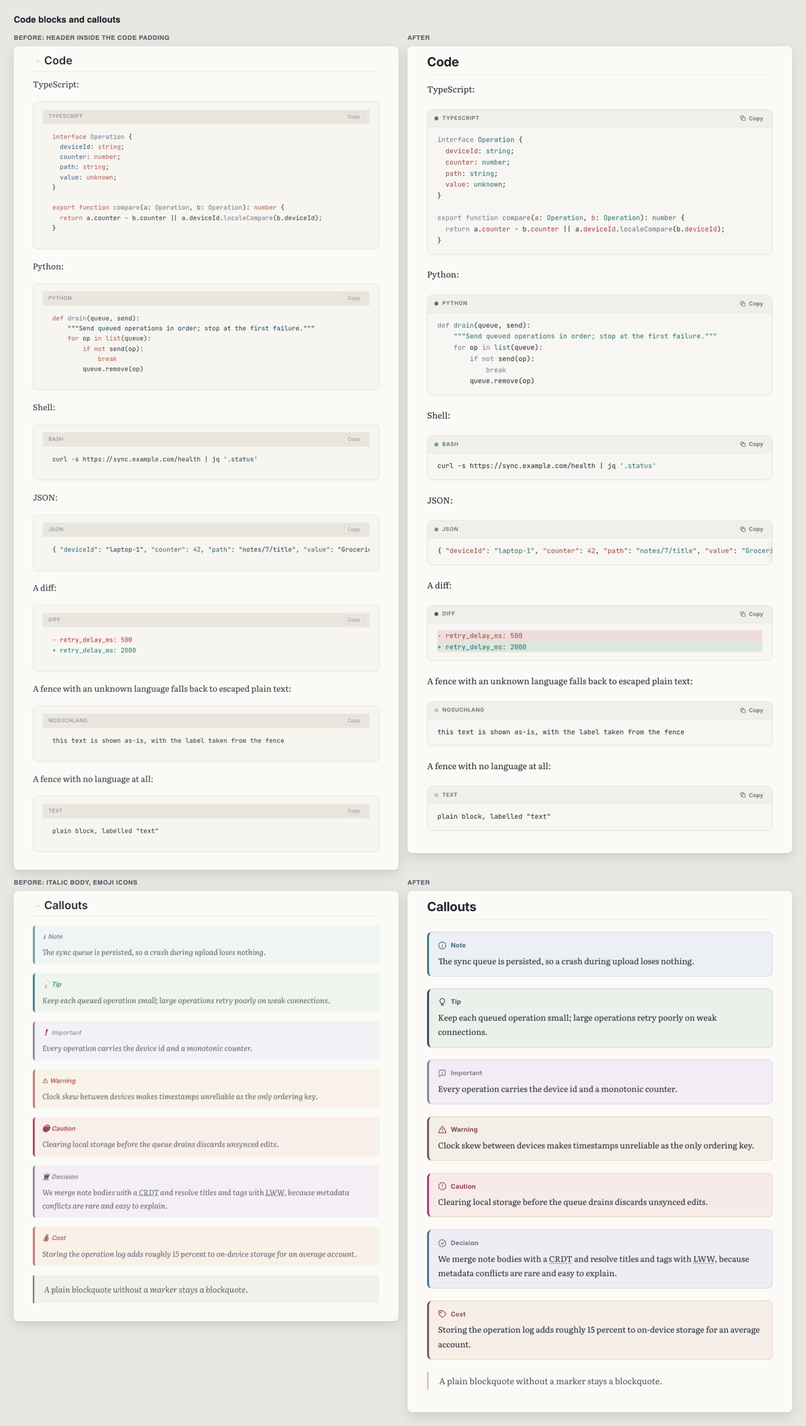
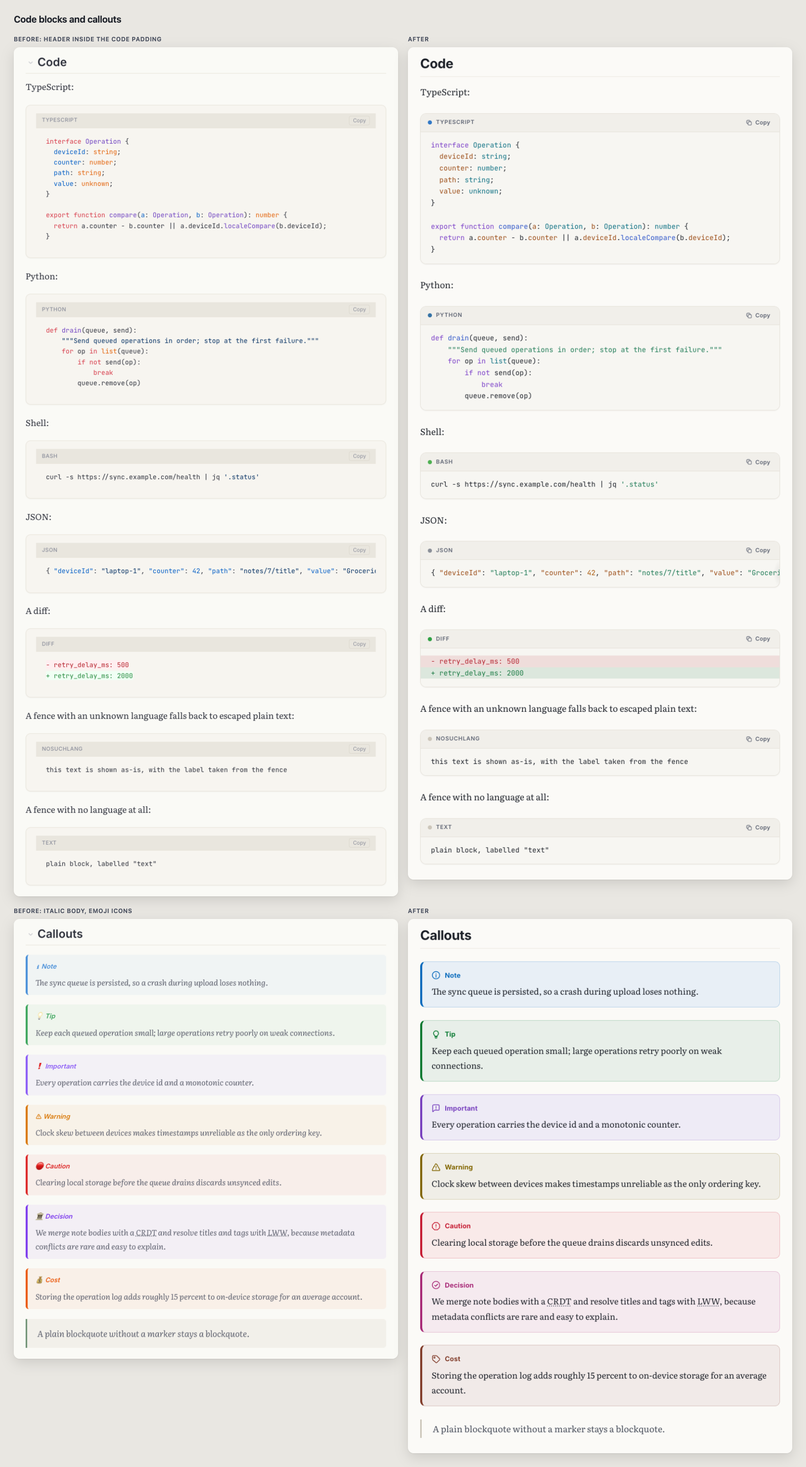
docs(visuals): describe the review fixes, and retake the screenshots
- features.md: the section rail, callout colours and tints, the dashboard, CSS-drawn figure captions (and why),
  tabular figures only in number columns, table scroll cues, printing (what prints, and how a dark diagram
  prints), phone width.
- rendering.md: the Mermaid lifecycle now namespaces ids and finishes each diagram; the font wait happens once;
  the callout table matches the drawn icons and colours.
- read-aloud.md: a figure's caption is not read (it is drawn by CSS); architecture.md: the function index and
  state for the new and renamed functions; dependencies.md: what a Mermaid upgrade must re-check;
  visualization-catalog.md: print gaps as they are now; roadmap.md: issue 11's fix.
- docs/images: every screenshot retaken from this branch (before halves from main 568069f), the journey is now in
  the gallery image, and visuals-phone.png is new. Saved as lossless PNG: a 256-colour palette visibly changed the
  callout tints these images document.

The rail now has an opaque background with a band of page colour above it, so text scrolling under the
translucent toolbar does not show between the two.

diff --git a/css/viewer.css b/css/viewer.css
@@ -1321,11 +1321,12 @@ input:focus-visible, textarea:focus-visible { outline-offset: 0; }
   position: sticky; top: calc(var(--toolbar-height) + 6px); z-index: 40;
   display: flex; align-items: center; gap: 3px;
   height: 34px; margin: -52px 0 18px; padding: 0 3px;
-  background: color-mix(in srgb, var(--bg-primary) 94%, transparent);
-  -webkit-backdrop-filter: saturate(1.4) blur(12px); backdrop-filter: saturate(1.4) blur(12px);
+  background: var(--bg-primary);
   border: 1px solid var(--border-secondary);
   border-radius: 12px;
-  box-shadow: var(--shadow-xs);
+  /* The first shadow is a band of page colour that fills the gap above the rail, so text scrolling under the
+     translucent toolbar does not show between the two. */
+  box-shadow: 0 -7px 0 0 var(--bg-primary), var(--shadow-xs);
   font-family: var(--font-ui);
 }
 .md-body > .section-minimap + * { margin-top: 0; }

diff --git a/docs/features.md b/docs/features.md
@@ -143,13 +143,13 @@ The commenting layer wraps `renderMarkdown`. It reads the `MDV-COMMENTS` block f
 
 ### Section minimap
 
-`buildSectionMinimap` adds a row of buttons, one per H2, but **only when the document has three or more H2 headings**.
+`buildSectionMinimap` adds a rail of buttons, one per H2, but **only when the document has three or more H2 headings**.
 
-- It sits directly after the frontmatter dashboard if there is one. Otherwise it sits under the first H1, at the top of that heading's section (so the H1's fold toggle still works), or at the top of the document.
-- Each segment shows its section's title, cut with an ellipsis when it does not fit. Hovering a segment, or reaching it with Tab, shows the full title in a tooltip. The labels are drawn by CSS from `data-label` and named for screen readers with `aria-label`, so they are not document text: search, read-aloud and copy never pick them up.
-- When a segment is too narrow for a readable label (about 60 px, for example 17 sections in the reading column), the row becomes a section track: sections already read, the current one (larger, in the accent colour) and the ones ahead. The tooltip still names each segment.
+- The rail is the first element of the document, outside every section, so the blocks inside sections keep their positions among their siblings (comment anchors record them). It is drawn in the space above the document, so it takes no room from it, and it stays under the toolbar while you read (`position: sticky`), so it always shows where you are. Jumps (outline, search, links, diagram nodes) land below it.
+- With room, each segment shows its section's title, cut with an ellipsis when it does not fit. Hovering a segment, or reaching it with Tab, shows the full title in a tooltip. The labels are drawn by CSS from `data-label` and named for screen readers with `aria-label`, so they are not document text: search, read-aloud and copy never pick them up.
+- When segments are narrower than 72 px (for example 17 sections in the reading column), they become a track: sections already read, the current one (larger, in the accent colour) and the ones ahead. The rail then names the current section and its position, "Architecture 3 / 17" (from `data-current` and `data-position`), and the title of the document above the first H2. The tooltip still names each segment. A `ResizeObserver` switches between the two modes when the column changes width.
 - Clicking a segment scrolls to that H2.
-- The segment for the H2 currently in view is highlighted, using the same observer band as the scroll spy, and the observer of the previous render is disconnected first.
+- The current section is the last H2 above the reading line (the line the outline uses), recomputed on scroll at most once per frame, so it is right when scrolling up as well as down. Folded H2s are skipped. One scroll listener serves the page's lifetime.
 
 ### Collapsing and expanding sections
 
@@ -198,7 +198,7 @@ The choice is stored in `localStorage` under `mdv-fontsize`.
 ### Reading progress and scroll buttons
 
 - A thin bar under the toolbar fills as you scroll (`scroll` listener).
-- Two floating buttons scroll to the top and the bottom. The up button is hidden in the first 200 px of the page. The down button is hidden within 200 px of the bottom.
+- Two floating buttons scroll to the top and the bottom. The up button is hidden in the first 200 px of the page. The down button is hidden within 200 px of the bottom. At 600 px or less they are not shown: on a phone they covered the ends of the last lines of text.
 
 ### Search
 
@@ -298,13 +298,13 @@ Each code block has a header with a coloured dot for common languages, the langu
 | `[!NOTE]` | Note | blue | circled "i" |
 | `[!TIP]` | Tip | green | light bulb |
 | `[!IMPORTANT]` | Important | violet | speech bubble with "!" |
-| `[!WARNING]` | Warning | amber | triangle with "!" |
+| `[!WARNING]` | Warning | ochre (amber in dark) | triangle with "!" |
 | `[!CAUTION]` | Caution | red | octagon with "!" |
 | `[!TLDR]` | TL;DR | teal | lightning bolt |
-| `[!DECISION]` | Decision | deep violet | circled check mark |
-| `[!COST]` | Cost | orange | price tag |
+| `[!DECISION]` | Decision | magenta | circled check mark |
+| `[!COST]` | Cost | rust (coral in dark) | price tag |
 
-A callout has a tinted background, a strong left bar in its accent colour, and a title in that colour with its icon. Each theme sets the eight accent colours (`--callout-*` in `css/viewer.css`), and each title meets 4.5:1 on its own tint. The icons are drawn as inline SVG in the accent colour, so they look the same on every operating system. An unknown type leaves the blockquote unchanged. Text after the marker on the same line stays in the body; there is no custom-title syntax.
+A callout has a tinted background, a strong left bar in its accent colour, and a title in that colour with its icon. Each theme sets the eight accent colours (`--callout-*` in `css/viewer.css`): the closest two are at least CIELAB dE76 20 apart in every theme, and each title meets 4.5:1 on its own tint. The tint is the accent mixed in oklab into a grey at the page's lightness (`--callout-base`), not into the page itself, so a cool callout on the warm sepia page keeps its own hue instead of turning khaki (`tests/e2e/visuals-content.spec.mjs`). The icons are drawn as inline SVG in the accent colour, so they look the same on every operating system. An unknown type leaves the blockquote unchanged. Text after the marker on the same line stays in the body; there is no custom-title syntax.
 
 ### Frontmatter dashboard
 
@@ -327,30 +327,36 @@ repos:
 
 | Field | Shape | How it renders |
 |---|---|---|
-| `status` | string | A pill that shows the original text. Its colour depends on the text: anything containing `ship` is green (shipped), `progress` is amber (in progress), `block` is red (blocked), and everything else is grey (draft). |
+| `status` | string | A pill that shows the text, with hyphens and underscores read as spaces (`in-progress` shows as IN PROGRESS). Its colour depends on the text: anything containing `ship` is green (shipped), `progress` is amber (in progress), `block` is red (blocked), and everything else is grey (draft). |
 | `date` | string | Shown with a calendar icon next to the status pill. Shown only when the dashboard itself is shown. |
-| `metrics` | list of `{label, value}` | A grid of cards, each with a small label over a large value. |
-| `repos` | list of `{name, github}` | A rounded badge per entry. With `github` set, the badge is a link that opens in a new tab and shows a star before the name. Without it, the badge is plain text. `name` defaults to `repo`. |
+| `metrics` | list of `{label, value}` | A row of cards that share its width, each with a small label over a large value. They wrap on narrow screens; a card alone on its row takes the whole row. |
+| `repos` | list of `{name, github}` | A rounded badge per entry. With `github` set, the badge is a link that opens in a new tab and shows a link icon before the name. Without it, the badge is plain text. `name` defaults to `repo`. |
 | `abbreviations` | map, or list of `KEY: value` | Every whole-word occurrence of a key gets a tooltip with its expansion. See [Abbreviation tooltips](#abbreviation-tooltips). |
 
-The section minimap, if present, goes directly below the dashboard.
+The section rail, if present, sits above the dashboard.
 
 ### Other rendered elements
 
 The viewer also renders task lists, footnotes, definition lists, `==highlight==`, `~sub~`, `^sup^`, KaTeX math and HTML `<details>` blocks. These are covered in [rendering.md](rendering.md). Task-list checkboxes can be ticked, but the change is not written back to the file *(inferred: no handler exists)*.
 
-- **Figures.** An image alone in its paragraph (or a linked image alone in its paragraph) is centred, rounded and shadowed, with its title, or otherwise its alt text, as a caption underneath (`mdvCaptionImages`). Alt text that is only a file name is not shown. The paragraph stays a `<p>`, so comment anchors keep working, and a captioned linked image is no longer turned into a text-only link card (one with neither alt text nor a title still is).
-- **Numbers in tables.** A column whose every filled cell is a number (`1,234.5`, `-3`, `12%`, `$5`, `4.2k`) is right-aligned (`mdvAlignNumericColumns`), unless the markdown already set an alignment for it. Every table uses tabular figures, scrolls inside its own rounded box when it is wider or taller than the page allows, and keeps its header row in view while it scrolls.
+- **Figures.** An image alone in its paragraph (or a linked image alone in its paragraph) is centred, rounded and shadowed, with its title, or otherwise its alt text, as a caption underneath (`mdvCaptionImages`). Alt text that is only a file name is not shown. The caption is an empty `span.mdv-figcaption` whose words CSS draws from `data-caption`: it is never text, because a new comment's anchor is found by the block's text in the source, and the caption's words are not on the image's line (a comment on a figure is orphan-tracked, never written before another block with the same words). Read-aloud and search do not see it, and screen readers already have the words from the image's alt or title. The paragraph stays a `<p>`, and a captioned linked image is not turned into a text-only link card (one with neither alt text nor a title still is).
+- **Numbers in tables.** A column whose every filled cell is a number (`1,234.5`, `-3`, `12%`, `$5`, `4.2k`) is right-aligned with tabular figures (`mdvAlignNumericColumns`), unless the markdown already set an alignment for it. Other cells keep proportional figures, so a hyphen keeps its width. A table scrolls inside its own rounded box when it is wider or taller than the page allows, keeps its header row in view while it scrolls, and fades at the side it continues to (`mdvTableScrollCues`).
 
 ### Printing
 
-The print stylesheet (`@media print`) hides the toolbar, table of contents, minimap, scroll buttons, progress bar, search and shortcuts overlays, read-aloud player, settings panel, comments sidebar, lightbox, copy buttons and fold toggles, and sets the body text to 11pt. It always prints the light palette, even from Sepia or Dark, and keeps code blocks, diagrams, tables, callouts and figures whole across pages. Diagrams keep the colours they were drawn in.
+The print stylesheet (`@media print`) hides the toolbar, table of contents, minimap, scroll buttons, progress bar, search and shortcuts overlays, read-aloud player, settings panel, comments sidebar, lightbox, copy buttons and fold toggles, and sets the body text to 11pt.
+
+- Paper always gets the light palette, all of it (text, code, callouts, links), even from Sepia or Dark: the sepia and dark page tokens apply on screen only. Text prints in #111.
+- A table that scrolls inside its own box on screen is a plain table on paper: every row prints, across as many pages as it needs, with its header repeated and no row split.
+- Code blocks, diagrams, callouts and figures are kept whole across pages.
+- A diagram keeps the palette it was drawn in, and its card is printed with it (`print-color-adjust: exact`) even when the browser's "background graphics" option is off, so a diagram drawn in the dark theme prints as a dark card, readable. To print it light, switch to the light theme first.
+- `tests/e2e/visuals-print.spec.mjs` checks each theme under print media and a 60-row table in a real PDF.
 
 ### Narrow screens
 
 - At 900 px or less, the table of contents becomes an off-canvas overlay, toolbar button labels are hidden, and the breadcrumb and reading meta are hidden.
-- At 760 px or less, the fold toggles sit before the heading text instead of in the left margin.
-- At 600 px or less, padding and heading sizes shrink, and the toolbar keeps its essentials: page width, focus mode, fold-all and the two save-location buttons (which need the File System Access API that phone browsers lack) are hidden. At 390 px nothing scrolls sideways (`tests/e2e/visuals.spec.mjs`).
+- At 760 px or less, the fold toggles sit at the end of the heading's first line instead of in the left margin, so a wrapped heading's lines keep the text's left edge.
+- At 600 px or less, padding and heading sizes shrink, and the toolbar keeps its essentials: page width, focus mode, fold-all and the two save-location buttons (which need the File System Access API that phone browsers lack) are hidden, and so is the file name (the title heading names the document). The text-size control stays, without its size label. The floating scroll buttons are not shown. At 390 px nothing scrolls sideways (`tests/e2e/visuals.spec.mjs`, `tests/e2e/visuals-layout.spec.mjs`).
 - When the comments sidebar is open on a screen 1100 px wide or less, it overlays the content instead of pushing it aside.
 
 ---

diff --git a/docs/architecture.md b/docs/architecture.md
@@ -269,7 +269,9 @@ Everything below runs in this order on page load.
 | `mdvView` | `js/diagram-overlay.js` | The expanded view's state: the diagram shown, scale, translation, natural size, active pointers and gesture, animation frame, the element to give focus back to |
 | `mdvMermaidQueue`, `mdvMermaidGeneration`, `mdvMermaidSeq` | `js/mermaid.js` | Render passes run one after another; a newer request stops an older pass; render ids are never reused |
 | `MDV_DIAGRAM_TITLES`, `MDV_DIAGRAM_TOKENS` | `js/mermaid.js` | Mermaid's `diagramType` → title; palette name → `--diagram-*` custom property |
-| `mdvMinimapObserver` | `js/enhancements.js` | The minimap's `IntersectionObserver`, disconnected before the next render builds a new one |
+| `mdvMinimap` | `js/enhancements.js` | The section rail of the current document (its element, segments, `h2`s, title) and its `ResizeObserver`, disconnected before the next render builds a new one. One `scroll` and one `resize` listener, for the page's lifetime, update it at most once per frame (`mdvScheduleMinimap`) |
+| `mdvTableResize` | `js/enhancements.js` | One `ResizeObserver` over the document's tables (scroll cues), disconnected on the next render |
+| `mdvDiagramFontLate` | `js/mermaid.js` | A wait for the Inter web font has timed out and the redraw on its arrival is pending, so later passes do not wait again |
 | `LINK_TYPES` | 2573 | `enhanceLinks`, `showLinkTooltip`, `buildLinksPanel` |
 | `tooltipHideTimer` | 2675 | `showLinkTooltip`, `hideLinkTooltip`, tooltip `mouseenter` |
 | `CALLOUT_TYPES` | 2817 | `transformCalloutBlocks` (NOTE, TIP, IMPORTANT, WARNING, CAUTION, TLDR, DECISION, COST) |
@@ -398,7 +400,7 @@ passes, and the code-block markup.
 | `addSectionToggles` | chevron `onclick` | `toggleSection` |
 | `buildToc` | TOC link `onclick` | Smooth-scrolls to the heading and closes the mobile TOC |
 | `setupScrollSpy` | `IntersectionObserver` on headings | Active TOC link and breadcrumb text |
-| `buildSectionMinimap` | segment `click`, `IntersectionObserver` on `h2` (the previous render's observer is disconnected) | Scroll to section; current and already-read segments |
+| `buildSectionMinimap` | segment `click`; a `ResizeObserver` on the rail (the previous render's is disconnected); window `scroll` and `resize` (registered once, in `js/enhancements.js`) | Scroll to section; label or track mode; current and already-read segments, the current section's name and position |
 | `setupImageLightbox` | each `img` `click` | Opens the lightbox |
 | `enhanceLinks` | each link `mouseenter`/`mouseleave` | `showLinkTooltip` / `hideLinkTooltip` |
 | `buildLinksPanel` | anchor-type items `click` | Scrolls to the target and closes the panel |
@@ -411,8 +413,8 @@ passes, and the code-block markup.
 | `mdvRenderSidebar` | reply/resolve/delete `onclick`, reply textarea `keydown` | Thread actions |
 | `mdvRenderChips` | chip `onclick` | `mdvFocusThread` |
 
-The `IntersectionObserver`s created by `setupScrollSpy` and `buildSectionMinimap` are never
-disconnected, so each re-render adds new observers (inferred).
+The `IntersectionObserver` created by `setupScrollSpy` is never disconnected, so each re-render adds a
+new one (inferred). `buildSectionMinimap` creates none.
 
 ### 6.3 Inline handlers in markup and generated HTML
 
@@ -702,18 +704,24 @@ template string and is not code. Anonymous handlers follow the table.
 |---|---|---|
 | `renderMermaidDiagrams()` | `js/mermaid.js` | Saves new sources, queues a pass that draws every diagram not drawn in the current palette; returns a promise |
 | `mdvRenderMermaidPass(generation)` | `js/mermaid.js` | One pass: palette, web font, `mermaid.initialize`, then each diagram in order |
-| `mdvRenderDiagram(el, palette)` | `js/mermaid.js` | Draws one diagram; on success records its type, makes it expandable, links its nodes, refreshes an open view |
+| `mdvRenderDiagram(el, palette)` | `js/mermaid.js` | Draws one diagram; on success namespaces its ids, finishes it, records its type, makes it expandable, links its nodes, refreshes an open view |
+| `mdvIsolateSvgIds(svg, prefix, keepRoot)` | `js/mermaid.js` | Prefixes every id in an SVG (numbering repeats) and rewrites `url(#…)`, `href`, ARIA references and `#id` selectors; used for every drawn diagram and for the expanded view's copy |
+| `mdvFinishDiagram(svg, type, palette)` | `js/mermaid.js` | What needs the drawn geometry: `mdvMatchLabelChips` (label chips take their container's colour), `mdvTrimCompositeStates` (one bottom border), `mdvRoundClassBoxes` and `mdvRoundEntities` (8 px corners), `mdvCentreTitle` and `mdvCentreTimelineText`, `mdvTodayBehindTasks`, `mdvPieLabelColours` |
+| `mdvReadableOn(bg, a, b)`, `mdvContrast(x, y)` | `js/mermaid.js` | The text colour that reads better on a fill (pie labels, git branch labels); WCAG contrast of two hex colours |
+| `mdvDiagramFontsReady()` | `js/mermaid.js` | Waits for the Inter web font at most 1.5 s, once; a late font redraws every diagram |
 | `mdvShowDiagramError(el, err, source)` | `js/mermaid.js` | The "could not be drawn" box with the reason and the source |
 | `mdvMakeDiagramExpandable(wrapper)` | `js/mermaid.js` | Expand button and wrapper click, once per wrapper |
 | `mdvDiagramPalette()` | `js/mermaid.js` | The current theme's `--diagram-*` tokens as hex, with a key that changes with the palette |
-| `mdvColorHex(value)` | `js/mermaid.js` | Any CSS colour → `#rrggbb` (hex directly, anything else through a probe element and a one-pixel canvas) |
+| `mdvColorHex(value, under)` | `js/mermaid.js` | Any CSS colour → `#rrggbb` (hex directly, anything else through a probe element and a one-pixel canvas, a translucent colour composited over `under`) |
 | `mdvMermaidConfig(palette, width)` | `js/mermaid.js` | The `mermaid.initialize` options: `base` theme variables, per-diagram settings, `themeCSS` |
 | `mdvMermaidThemeCss(palette)` | `js/mermaid.js` | The CSS Mermaid embeds in each SVG (shapes, labels, section colours) |
 | `mdvDiagramContentWidth()` | `js/mermaid.js` | The column width a diagram gets, for Gantt charts |
 | `mdvDiagramTypeTitle(type)` | `js/mermaid.js` | `diagramType` → readable title |
 | `openDiagramOverlay(wrapper)` | `js/diagram-overlay.js` | Clones the SVG into the expanded view, titles it, fits it, moves focus into the dialog |
 | `mdvRefreshDiagramOverlay(wrapper)` | `js/diagram-overlay.js` | After a redraw: swaps the new drawing into an open view, keeping zoom and position |
-| `mdvZoomAt(factor, x, y, animate)` | `js/diagram-overlay.js` | Zooms keeping the point under (x, y) still |
+| `mdvZoomAt(factor, x, y, animate)`, `mdvPanBy(dx, dy)` | `js/diagram-overlay.js` | Zooms keeping the point under (x, y) still; pans. Both start from where a running animation is heading (`mdvViewGoal`), so quick steps compound |
+| `mdvFollowNodeLink(link)`, `mdvRevealInView(el)` | `js/diagram-overlay.js` | A linked node chosen by click, Enter or Space closes the view and jumps; a node reached by Tab is panned into view |
+| `mdvCloseDetachedDiagramOverlay()` | `js/diagram-overlay.js` | Closes a view whose diagram is no longer on the page (called at the start of every render pass) |
 | `mdvDiagramFit(animate)`, `mdvDiagramActualSize(animate)` | `js/diagram-overlay.js` | Fit to the screen; 100% |
 | `mdvApplyView()` | `js/diagram-overlay.js` | Draws the view: the SVG at its scaled size, the container translated, the label |
 | `closeDiagramOverlay()` | `js/diagram-overlay.js` | Hides the view and gives focus back to what opened it |
@@ -733,7 +741,8 @@ template string and is not code. Anonymous handlers follow the table.
 | `buildToc()` | 2321 | Fills `#tocList` from `h1`–`h6` and hides the TOC if there are no headings |
 | `toggleToc()` | 2353 | Mobile slide-in at 900px or less, otherwise hide/show plus full width |
 | `setupScrollSpy()` | 2368 | `IntersectionObserver` → active TOC link and breadcrumb |
-| `buildSectionMinimap()` | `js/enhancements.js` | A bar of `h2` segments (only when there are 3 or more), after the dashboard or at the top of the first `h1`'s section; labels drawn by CSS from `data-label` |
+| `buildSectionMinimap()` | `js/enhancements.js` | A rail of `h2` segments (only when there are 3 or more), the first element of `#mdBody`, sticky under the toolbar; labels drawn by CSS from `data-label` |
+| `mdvFitMinimap()`, `mdvUpdateMinimap()` | `js/enhancements.js` | Label mode or track mode by segment width (72 px); the current section (last `h2` above the reading line), read segments, `data-current` and `data-position` |
 
 ### 11.6 Search
 
@@ -762,10 +771,12 @@ template string and is not code. Anonymous handlers follow the table.
 | `buildLinksPanel(links)` | 2735 | Groups links by type, de-duplicates by href |
 | `copyCode(...args)` | `js/links.js` | Copies the inner `code.hljs` element's text (only the code), finding the button in whatever it is passed (the button, or an event) |
 | `mdvCopyText(text)`, `mdvFlashCopyButton(btn, text, cls)` | `js/links.js` | Clipboard with a legacy fallback; the button's "Copied" / "Copy failed" state |
-| `transformCalloutBlocks()` | `js/enhancements.js` | `> [!TYPE]` blockquote → `.callout.callout-type` with an icon and a title. The first post-processing pass, so it also runs `mdvCaptionImages` and `mdvAlignNumericColumns` |
-| `mdvCaptionImages(body)` | `js/enhancements.js` | An image alone in its paragraph becomes a captioned figure (`p.mdv-figure`) |
-| `mdvAlignNumericColumns(body)` | `js/enhancements.js` | Right-aligns table columns whose cells are all numbers (`.mdv-num`) |
-| `mdvHeadingText(h)` | `js/enhancements.js` | A heading's own words, without the fold toggle and the `#` permalink |
+| `transformCalloutBlocks()` | `js/enhancements.js` | `> [!TYPE]` blockquote → `.callout.callout-type` with an icon and a title. The first post-processing pass, so it also runs `mdvCaptionImages`, `mdvAlignNumericColumns`, `mdvTableScrollCues` and `mdvPolishDashboard` |
+| `mdvCaptionImages(body)` | `js/enhancements.js` | An image alone in its paragraph becomes a captioned figure (`p.mdv-figure`); the caption is an empty `span.mdv-figcaption` whose words CSS draws from `data-caption`, so they are not the paragraph's text |
+| `mdvAlignNumericColumns(body)` | `js/enhancements.js` | Right-aligns table columns whose cells are all numbers (`.mdv-num`, with tabular figures) |
+| `mdvTableScrollCues(body)` | `js/enhancements.js` | Marks the sides a table scrolls to (`mdv-more-left`, `mdv-more-right`), which CSS fades |
+| `mdvPolishDashboard(body)` | `js/enhancements.js` | The status pill reads a slug as words; a repository link drops its star glyph (CSS draws a link icon) |
+| `mdvHeadingLabel(h)` | `js/enhancements.js` | A heading's own words, without the fold toggle, the `#` permalink and a comment chip. Named apart from `navigation.js`'s helpers: classic scripts share one scope |
 | `applyAbbreviationTooltips(meta)` | `js/enhancements.js` | Wraps frontmatter `abbreviations` keys in `<abbr class="abbr-tooltip" title>`, outside code, math, diagrams and existing `<abbr>` |
 | `mdvFrontmatterAbbreviations(meta)` | `js/enhancements.js` | The abbreviation map from either YAML shape; the indented map is read from `rawMarkdown`'s frontmatter, only when it parses to the same meta |
 

diff --git a/docs/rendering.md b/docs/rendering.md
@@ -178,8 +178,8 @@ where `N` is the token index. ` ```Mermaid ` or ` ```mermaid title ` are not mat
 
 **Initialisation.** When `js/mermaid.js` loads it calls `mermaid.initialize({ startOnLoad: false, securityLevel: 'strict' })`. By default Mermaid draws every `.mermaid` element itself on the window `load` event, in its own theme; the viewer draws them instead. Each render pass then initialises Mermaid with:
 
-- `theme: 'base'` and `themeVariables` read from the current theme's `--diagram-*` custom properties in `css/viewer.css` (node, border, text, line, cluster, note, label background, accent, and an eight-colour series for pie slices, mind-map branches, timelines, journeys, git branches and charts). Mermaid's colour maths only accepts hex, so each token is resolved to hex first (`mdvColorHex`);
-- `themeCSS`, Mermaid's own per-SVG stylesheet, for what the variables cannot reach: rounded nodes, line caps, label backgrounds, section colours, title sizes. Anything that changes the size of text is set there, because Mermaid measures labels before the SVG reaches the page, with only its own styles applied;
+- `theme: 'base'` and `themeVariables` read from the current theme's `--diagram-*` custom properties in `css/viewer.css` (node, border, text, line, cluster, note, label background, accent, and an eight-colour series for pie slices, mind-map branches, timelines, journey actors, git branches and charts). Mermaid's colour maths only accepts hex, so each token is resolved to hex first (`mdvColorHex`; a translucent token is resolved over the diagram card). Journey actors go through the `actor0`-`actor5` variables and faces through `faceColor`: Mermaid's config merge appends arrays, so `journey.actorColours` cannot replace its six defaults. The series were chosen per theme with a colour-vision-deficiency check (Machado 2009 deuteranopia and protanopia) so neighbouring slices and a pie's legend stay apart; node borders are at least 3:1 against the card;
+- `themeCSS`, Mermaid's own per-SVG stylesheet, for what the variables cannot reach: rounded nodes (8 px for every type), line caps, arrowheads in the line colour, label chips, section colours, title sizes, a stick-figure actor's name below its legs, a dashed Gantt today line. Anything that changes the size of text is set there, because Mermaid measures labels before the SVG reaches the page, with only its own styles applied;
 - `fontFamily` Inter, also for the sequence diagram's actor, message and note fonts, so text is measured in the font it is drawn in;
 - `flowchart: { curve: 'basis', padding: 18, nodeSpacing: 44, rankSpacing: 56 }`, `sequence: { wrap: true, mirrorActors: false, … }`, and a Gantt width equal to the page column (`gantt.useWidth`), because Mermaid otherwise sizes a Gantt chart to its hidden render container (the whole window) and the result is shrunk to the column with unreadably small text;
 - `securityLevel: 'strict'`: labels are sanitised and click directives are ignored;
@@ -188,9 +188,9 @@ where `N` is the token index. ` ```Mermaid ` or ` ```mermaid title ` are not mat
 **Lifecycle.**
 
 1. When the pass is requested, every new `.mermaid` element's text is saved in `data-mdv-source`, synchronously, before anything else can draw it.
-2. Passes run one after another. A pass reads the palette, waits for the Inter web font when it is still loading (at most 1.5 s; if it arrives later, every diagram is drawn again in it; offline there is nothing to wait for), and draws every diagram whose `data-mdv-palette` differs from the current palette, in document order. A newer request (a theme change, a new document) stops an older pass at its next diagram.
+2. Passes run one after another. A pass first closes an expanded view whose diagram is no longer on the page (another document was opened), then reads the palette, waits for the Inter web font when it is still loading (at most 1.5 s, and only once: after a wait has timed out, later passes draw straight away, and every diagram is drawn again when the font arrives; offline there is nothing to wait for), and draws every diagram whose `data-mdv-palette` differs from the current palette, in document order. A newer request (a theme change, a new document) stops an older pass at its next diagram.
 3. Each diagram is drawn with `mermaid.render` under a fresh id (`mdv-mermaid-N`). Mermaid removes any element that already has the id it is given, so reusing the old id would make the diagram on screen disappear while its replacement is drawn.
-4. On success the SVG replaces the element's content and gets the class `mdv-diagram`; the element gets `rendered`, and the wrapper gets `data-diagram-type` (the `diagramType` Mermaid returns) and `data-diagram-label` (its readable name, shown on the card). The first time, the wrapper also gets the expand button and its click handler (`mdvMakeDiagramExpandable`). Then nodes are linked to sections (`mdvLinkDiagramNodes`, in `js/enhancements.js`), and an open expanded view of the same diagram is redrawn (`mdvRefreshDiagramOverlay`).
+4. On success the SVG replaces the element's content and gets the class `mdv-diagram`. Its ids are namespaced with its own id (`mdvIsolateSvgIds`, which also rewrites `url(#…)`, `href`, ARIA references and `#id` selectors in its style): Mermaid reuses plain ids such as `arrowhead` in every diagram, and a reference resolves to the first match in the page. Then `mdvFinishDiagram` applies what needs the drawn geometry: an edge label inside a subgraph or composite state gets its container's colour (`--mdv-chip`), a composite state draws one bottom border, class boxes and ER entities are rounded, journey and timeline titles and timeline box text are centred, the Gantt today line goes behind the bars, and each pie label takes whichever text colour reads better on its slice. The element gets `rendered`, and the wrapper gets `data-diagram-type` (the `diagramType` Mermaid returns) and `data-diagram-label` (its readable name, shown on the card). The first time, the wrapper also gets the expand button and its click handler (`mdvMakeDiagramExpandable`). Then nodes are linked to sections (`mdvLinkDiagramNodes`, in `js/enhancements.js`), and an open expanded view of the same diagram is redrawn (`mdvRefreshDiagramOverlay`).
 5. On failure the element gets the class `mermaid-error` and shows "This diagram could not be drawn", Mermaid's reason and the source, built with `textContent` only.
 
 **Theme changes.** `setTheme` calls `renderMermaidDiagrams` 100 ms later. Every diagram's palette key now differs, so every diagram, including any that failed, is drawn again from its saved source in the new palette. The SVG on screen stays until its replacement is ready, so nothing jumps.
@@ -287,14 +287,16 @@ Accepted forms (checked offline):
 
 | Marker | Label | Icon | Colour |
 |---|---|---|---|
-| `[!NOTE]` | Note | information sign | blue |
+| `[!NOTE]` | Note | circled "i" | blue |
 | `[!TIP]` | Tip | light bulb | green |
-| `[!IMPORTANT]` | Important | exclamation mark | violet (`#8B5CF6`) |
-| `[!WARNING]` | Warning | warning sign | amber |
-| `[!CAUTION]` | Caution | red circle | red |
-| `[!TLDR]` | TL;DR | pushpin | cyan |
-| `[!DECISION]` | Decision | classical building | deeper violet (`#7C3AED`) |
-| `[!COST]` | Cost | money bag | orange |
+| `[!IMPORTANT]` | Important | speech bubble with "!" | violet |
+| `[!WARNING]` | Warning | triangle with "!" | ochre (amber in dark) |
+| `[!CAUTION]` | Caution | octagon with "!" | red |
+| `[!TLDR]` | TL;DR | lightning bolt | teal |
+| `[!DECISION]` | Decision | circled check mark | magenta |
+| `[!COST]` | Cost | price tag | rust (coral in dark) |
+
+The icons are inline SVG and the colours are the theme's `--callout-*` tokens; see [features.md](features.md#callouts).
 
 There is no custom title syntax and no aliases. There is no fold syntax either: `> [!NOTE]- Title` is still turned into a Note callout (the regex stops at `]`), but the `-` and the title stay as the first line of the body (inferred from the regex; the markdown-it output was checked offline).
 

diff --git a/docs/roadmap.md b/docs/roadmap.md
@@ -118,7 +118,7 @@ Fixed in the initial import, and kept here as a record:
 | 8 | Two `$` on one line become math, even in prices and code; code samples then show raw KaTeX HTML | Verified, with a repro in `../samples/repro-dollar-signs.md` | Render math inside markdown-it with Pandoc's `$` rules, never inside code |
 | 9 | Dark theme: diagrams keep their light-theme colours, and sequence-diagram labels and arrows are `#333` on `#1C1C24` | **Fixed 2026-10-10.** `tests/e2e/visuals.spec.mjs` › *a theme change redraws every diagram in the dark palette, and back*: the flowchart node takes the dark fill and sequence text reaches at least 4.5:1 on the dark card. On the old code the same test fails: the node stays `rgb(236, 236, 255)` | Each diagram keeps its source (`data-mdv-source`); `renderMermaidDiagrams` redraws every diagram whose palette differs from the current theme's. The palette is Mermaid's `base` theme fed from the `--diagram-*` tokens in `css/viewer.css`, in all three themes |
 | 10 | Mermaid sequence-diagram notes overflow their box | **Fixed 2026-10-10.** `tests/e2e/visuals.spec.mjs` › *sequence-diagram notes stay inside their box*, light and dark: every note line lies inside its note rectangle. On the old code the note text starts 57px left of its box | `sequence: { wrap: true }`, with the sequence fonts set to the font the page draws them in, so text is measured as it is shown |
-| 11 | Section minimap labels overlap and clip when a document has many `h2` sections | **Fixed 2026-10-10.** `tests/e2e/visuals.spec.mjs` › *minimap labels stay inside their segments…* and *a minimap with room shows each label, truncated with an ellipsis…*. On the old code 13 of the kitchen sink's 17 labels are wider than their segment | Labels are drawn by CSS from `data-label`, truncated with an ellipsis, and shown in full in a tooltip on hover or keyboard focus. Segments too narrow for a readable label become a section track (read, current, ahead) |
+| 11 | Section minimap labels overlap and clip when a document has many `h2` sections | **Fixed 2026-10-10.** `tests/e2e/visuals.spec.mjs` › *minimap labels stay inside their segments…* and *a minimap with room shows each label, truncated with an ellipsis…*. On the old code 13 of the kitchen sink's 17 labels are wider than their segment | Labels are drawn by CSS from `data-label`, truncated with an ellipsis, and shown in full in a tooltip on hover or keyboard focus. The minimap is a rail that sticks under the toolbar (`tests/e2e/visuals-layout.spec.mjs`); segments too narrow for a readable label become a track (read, current, ahead) and the rail names the current section and its position |
 | 12 | Narration comments before a diagram or table under a heading are never found | Verified ([read-aloud.md](read-aloud.md)) | Move comment nodes with their block in `addSectionToggles` |
 | 13 | The copy button copies the language label and the word "Copy" with the code (e.g. `pythonCopydef hello…`) | **Fixed 2026-10-10.** `tests/e2e/visuals.spec.mjs` › *the copy button copies only the code*: the clipboard holds exactly the code. On the old code it holds `pythonCopydef drain(…`, plus a trailing newline | `copyCode` copies the inner `code.hljs` element and drops the fence's closing newline |
 | 14 | Clicking a diagram node never jumps to its section; the handler never attaches | **Fixed 2026-10-10.** `tests/e2e/visuals.spec.mjs` › *a diagram node named like a heading jumps to that section* and *a linked node in the expanded view closes it and jumps*. On the old code no node is linked (0 of the expected 3) | Nodes are linked after each diagram is drawn, by exact match of the label with a heading. A linked node is underlined, focusable and announced as a link; a click or Enter scrolls to the heading, unfolding collapsed sections, and flashes it |

diff --git a/docs/dependencies.md b/docs/dependencies.md
@@ -254,7 +254,7 @@ Newest versions on npm were checked on 2026-10-04; they are listed only to show 
 | markdown-it-footnote / mark / sub / sup / abbr | 4.0.0 / 4.0.0 / 2.0.0 / 2.0.0 / 2.0.0 | same | Nothing newer. Global names must match the `if (window.markdownitX)` guards exactly |
 | markdown-it-deflist | 3.0.0 | 4.0.0 | Major version: global name `markdownitDeflist`; definition list markup and CSS |
 | highlight.js + themes | 11.10.0 | 11.12.0 | Use `@highlightjs/cdn-assets` (same "common" build) or build a custom bundle if more languages are wanted; upgrade `highlight.min.js` and both theme CSS files **together**; keep the `<link>` ids `hljs-light` / `hljs-dark` that `setTheme` toggles. Re-test code blocks in both themes and the Copy button |
-| mermaid | 11.4.1 | 12.1.0 | Major version: global `mermaid`; `initialize` options (`theme: 'base'`, the `themeVariables` names, `themeCSS`, `suppressErrorRendering`, `sequence.wrap`, `gantt.useWidth`); the promise result `{ svg, diagramType }` of `mermaid.render(id, code)` and the `diagramType` names in `MDV_DIAGRAM_TITLES`; the SVG classes that `themeCSS`, `mdvLinkDiagramNodes` (`g.node`, `g.mindmap-node`) and `mdvDiagramOverlayTitle` rely on. Re-run `tests/e2e/visuals.spec.mjs` (every type in `samples/diagram-gallery.md`, in all three themes) and look at the gallery in each theme |
+| mermaid | 11.4.1 | 12.1.0 | Major version: global `mermaid`; `initialize` options (`theme: 'base'`, the `themeVariables` names, `themeCSS`, `suppressErrorRendering`, `sequence.wrap`, `gantt.useWidth`); the promise result `{ svg, diagramType }` of `mermaid.render(id, code)` and the `diagramType` names in `MDV_DIAGRAM_TITLES`; the SVG classes that `themeCSS`, `mdvLinkDiagramNodes` (`g.node`, `g.mindmap-node`), `mdvDiagramOverlayTitle` and `mdvFinishDiagram` rely on (`g.cluster > rect`, `rect.inner`/`rect.outer` of a composite state, class boxes as `g.basic.label-container > path`, `rect.entityBox`, `text[font-size="4ex"]` titles, `g.timeline-node`, `g.today`, `path.pieCircle` and `text.slice` in the same order); the journey's `actor0`-`actor5` and `faceColor` variables (its `actorColours` array cannot replace the defaults, because the config merge appends arrays). Re-run the visuals specs (`tests/e2e/visuals*.spec.mjs`: every type in `samples/diagram-gallery.md`, in all three themes) and look at the gallery in each theme |
 | KaTeX (js + css + fonts) | 0.16.11 | 0.19.0 | Upgrade `katex.min.js`, `katex.min.css` **and the whole `fonts/` set** from the same version, since the CSS names the font files. Re-test inline and display math, invalid math (with `throwOnError: false` KaTeX renders the offending source instead of throwing), both themes |
 | diff-match-patch | `master` (2019) | upstream archived | No upstream changes expected. Only `match_main` with `Match_Threshold` and `Match_Distance` is used |
 

diff --git a/docs/visualization-catalog.md b/docs/visualization-catalog.md
@@ -685,16 +685,20 @@ Value Medium, effort M.
 
 **Today.** Only the `@media print` rules in section 2. The browser's "Save as PDF" is the PDF route.
 
-**Gaps** *(inferred from the CSS; not test-printed)*:
+**What prints today** (`tests/e2e/visuals-print.spec.mjs`, under print media and in a real PDF): the
+light palette from any theme, all of it (the sepia and dark page tokens are screen-only); every row of a
+long table, across pages, with the header repeated; code blocks, diagrams, callouts and figures kept whole.
+
+**Gaps**:
 
 - `.section-content.collapsed { display: none; }` has no print override, so folded sections are left
-  out of the printout.
+  out of the printout *(inferred from the CSS)*.
 - Canvas-based renderers print as bitmaps; SVG prints sharply.
-- Text and surfaces print in the light palette from any theme; diagrams keep the colours they were
-  drawn in, so a diagram drawn in the dark theme prints dark.
+- A diagram keeps the palette it was drawn in and prints on its own card (`print-color-adjust:
+  exact`), so a diagram drawn in the dark theme prints as a dark card: readable, but heavy on ink.
 
-**Improvements.** On `beforeprint`, expand all sections and force light colours; restore on
-`afterprint`. Add `break-inside: avoid` for diagrams, tables, code blocks and callouts. Optionally
+**Improvements.** On `beforeprint`, expand all sections; redraw diagrams in the light palette before
+printing (a redraw is asynchronous, so it needs its own print command). Optionally
 print link URLs after link text and a running header with the document title using `@page`. Paged.js
 (0.4.3, last published 2023-07-06) adds page numbers and running heads but is stale; plain CSS is
 enough. Value Medium, effort S.

diff --git a/docs/read-aloud.md b/docs/read-aloud.md
@@ -85,8 +85,8 @@ Because `renderMarkdown` runs again whenever a document is loaded, pasted, or a 
 Notes on the generic `text` branch, all following from `textContent`:
 
 - Lists, blockquotes, callouts, definition lists, footnote sections and HTML blocks are read as their plain text.
-- An image inside other text contributes nothing; `alt` text is not part of `textContent`. An image alone in its paragraph gets a visible caption (its title, or its alt text) from `mdvCaptionImages`, and that caption is read.
-- Every other element sitting directly in `#mdBody` or a `section-content` is read too, including the front-matter dashboard (`.fm-dashboard`) (inferred; see [Limitations](#limitations-and-browser-quirks)). The section minimap is not read: its labels are drawn by CSS, so its `textContent` is empty.
+- An image contributes nothing; `alt` text is not part of `textContent`. An image alone in its paragraph shows a caption (its title, or its alt text) from `mdvCaptionImages`, but the caption is drawn by CSS from `data-caption`, so it is not read either (it is kept out of the text so a comment on the figure cannot be anchored to other words; see [features.md](features.md#other-rendered-elements)).
+- Every other element sitting directly in `#mdBody` or a `section-content` is read too, including the front-matter dashboard (`.fm-dashboard`) (inferred; see [Limitations](#limitations-and-browser-quirks)). The section rail (minimap) is not read: its labels, current section and position are drawn by CSS, so its `textContent` is empty.
 
 ```mermaid
 flowchart TD
